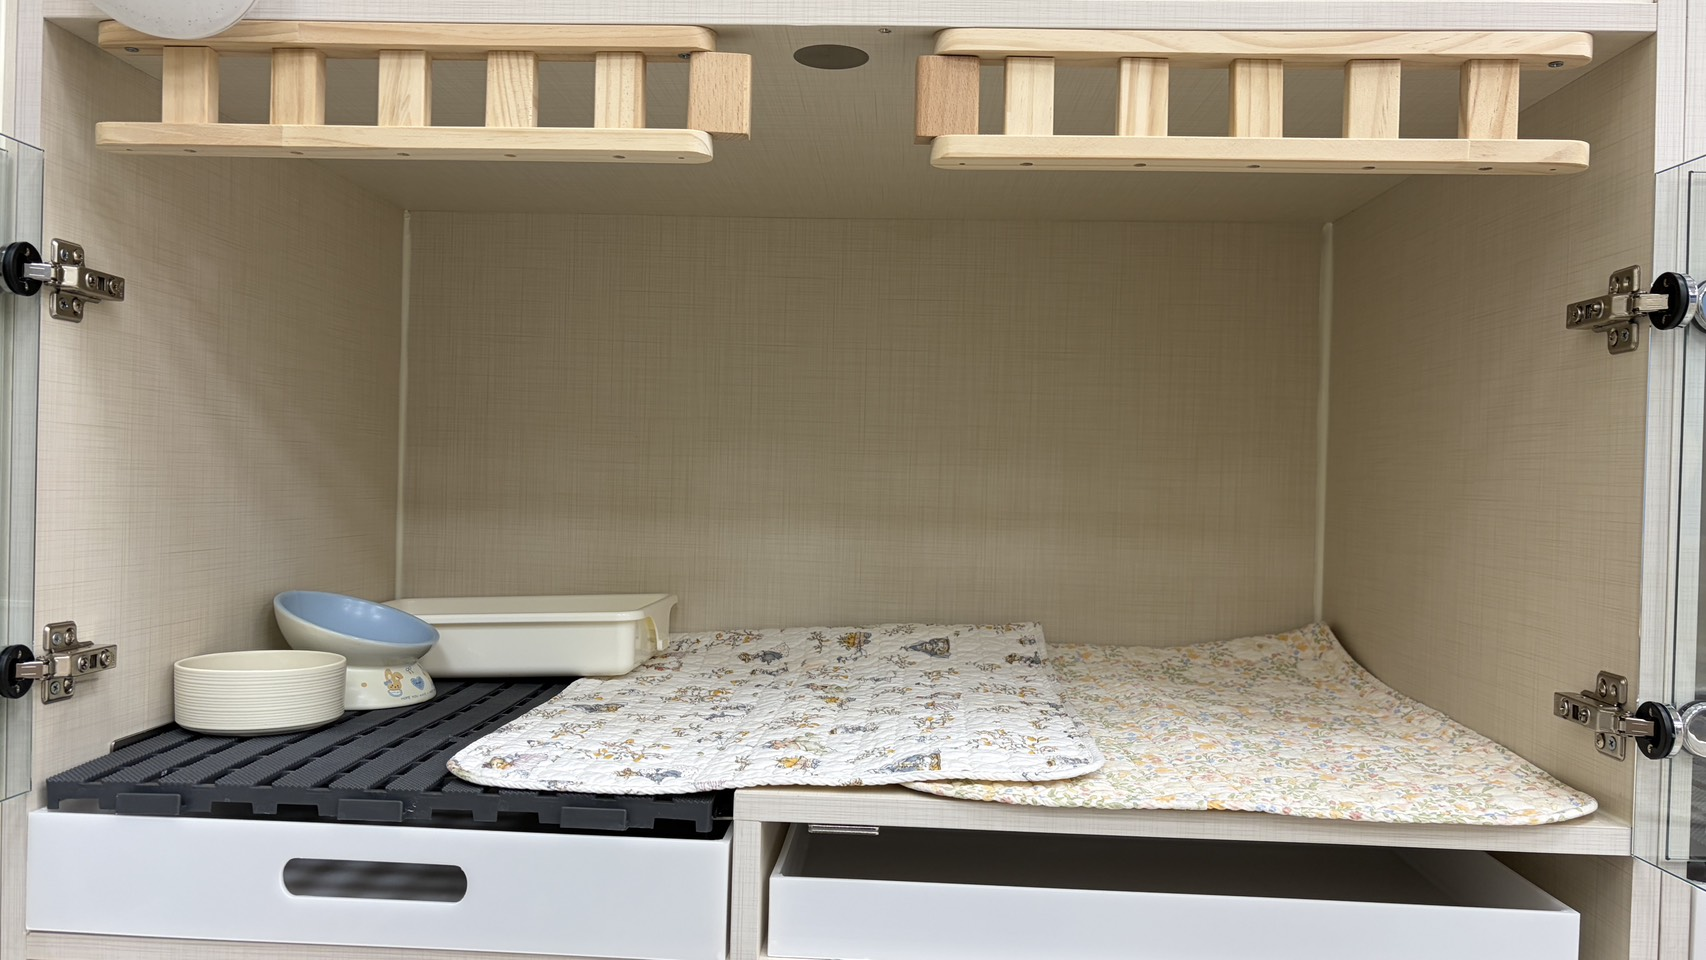
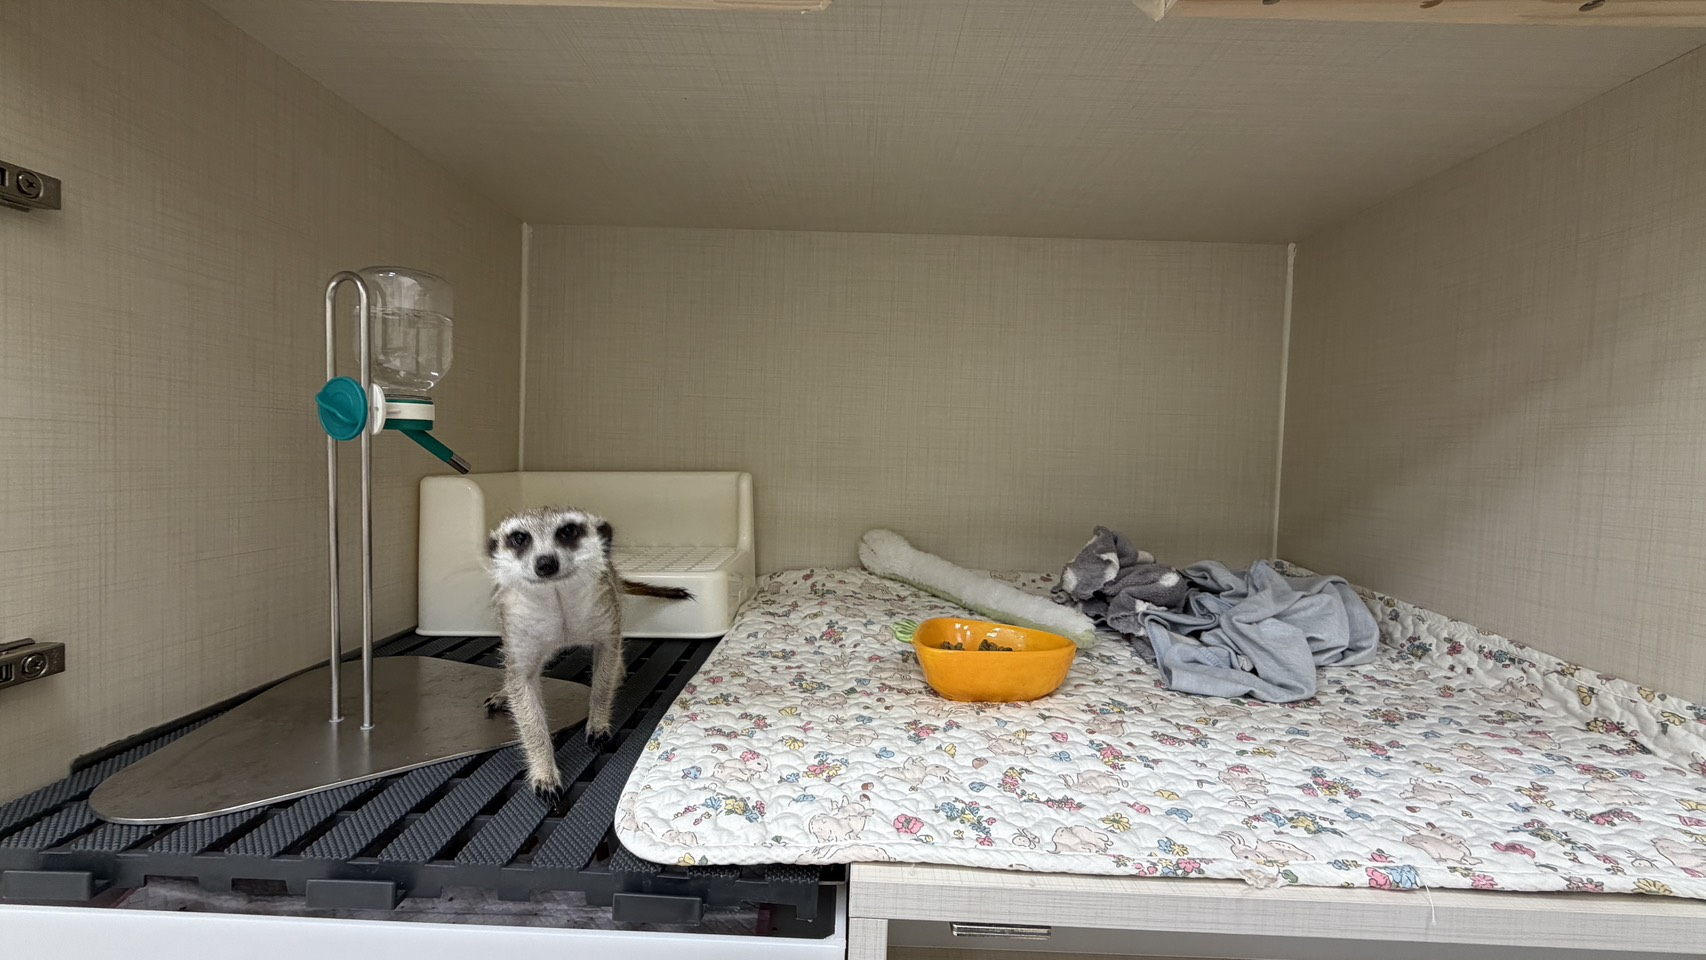
Add files via upload

diff --git a/price.html b/price.html
@@ -999,6 +999,7 @@
                                 <div>
                                     <ul>
                                         <li>有監視設備，避免驚嚇動物，請勿開啟聲音及對話功能，否則將關閉系統。</li>
+                                           <li>如不會使用便盆需加收清潔費</li>
                                     </ul>
                                 </div>
                             </div>
@@ -1037,6 +1038,7 @@
                                 <div>
                                     <ul>
                                         <li>有監視設備，避免驚嚇動物，請勿開啟聲音及對話功能，否則將關閉系統。</li>
+                                           <li>如不會使用便盆需加收清潔費</li>
                                     </ul>
                                 </div>
                             </div>
@@ -1050,8 +1052,8 @@
                         <div class="card-gallery-wrap">
                             <div class="room-gallery">
                                 <img src="L1.jpg" class="gallery-img">
-                                <div class="gallery-placeholder">待更新</div>
-                                <div class="gallery-placeholder">待更新</div>
+                                <img src="L2.jpg" class="gallery-img">
+                                <img src="L3.jpg" class="gallery-img">
                             </div>
                         </div>
                         <div class="card-info-wrap">
@@ -1075,6 +1077,7 @@
                                 <div>
                                     <ul>
                                         <li>有監視設備，避免驚嚇動物，請勿開啟聲音及對話功能，否則將關閉系統。</li>
+                                           <li>如不會使用便盆需加收清潔費</li>
                                     </ul>
                                 </div>
                             </div>
@@ -1113,6 +1116,7 @@
                                 <div>
                                     <ul>
                                         <li>有監視設備，避免驚嚇動物，請勿開啟聲音及對話功能，否則將關閉系統。</li>
+                                            <li>如不會使用便盆需加收清潔費</li>
                                     </ul>
                                 </div>
                             </div>
